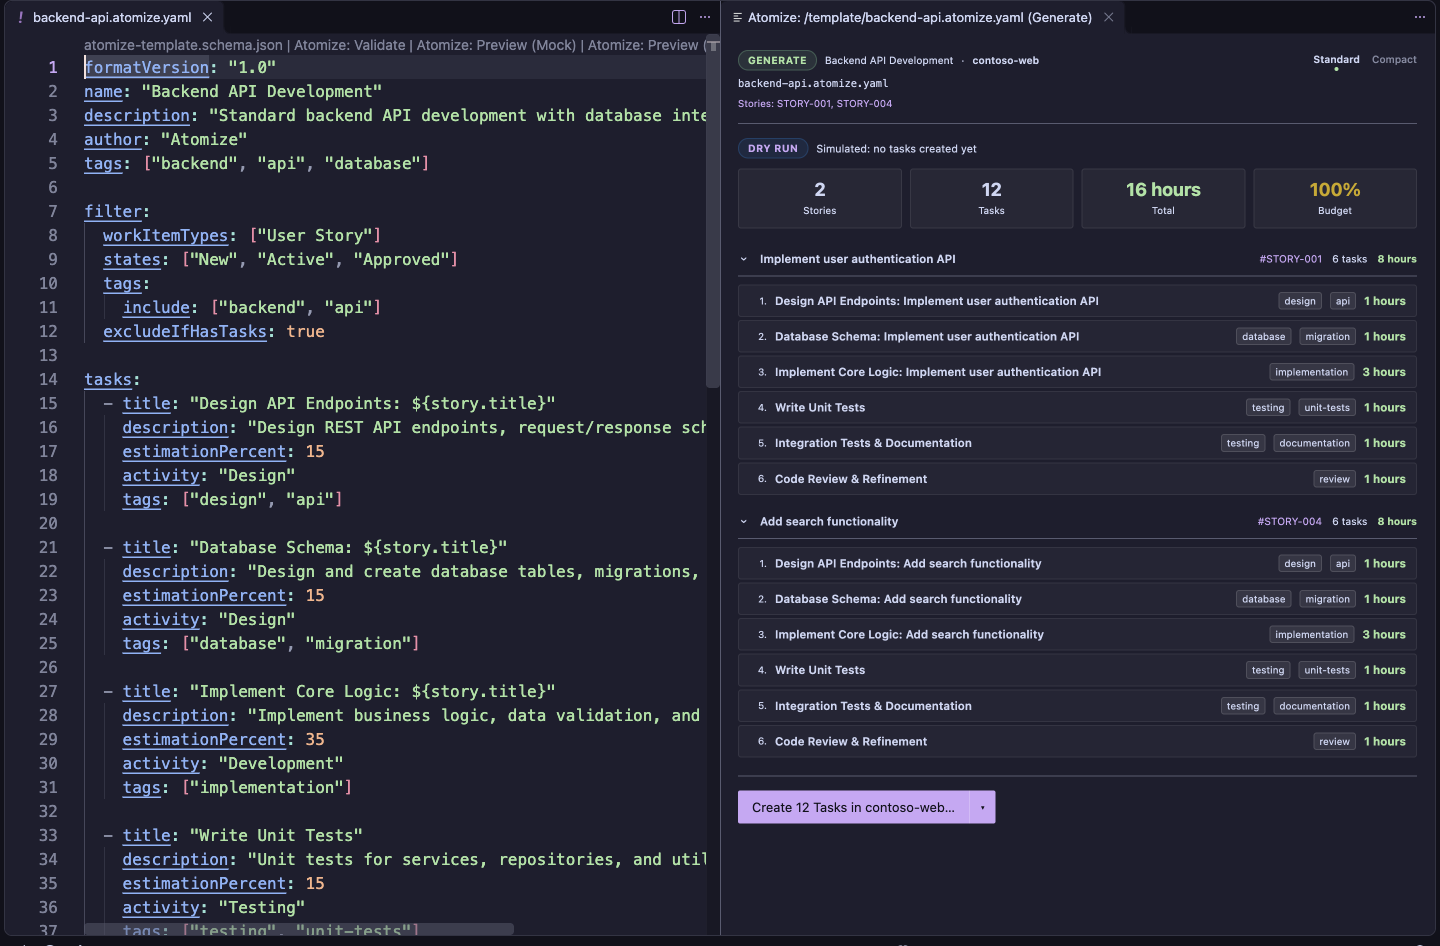
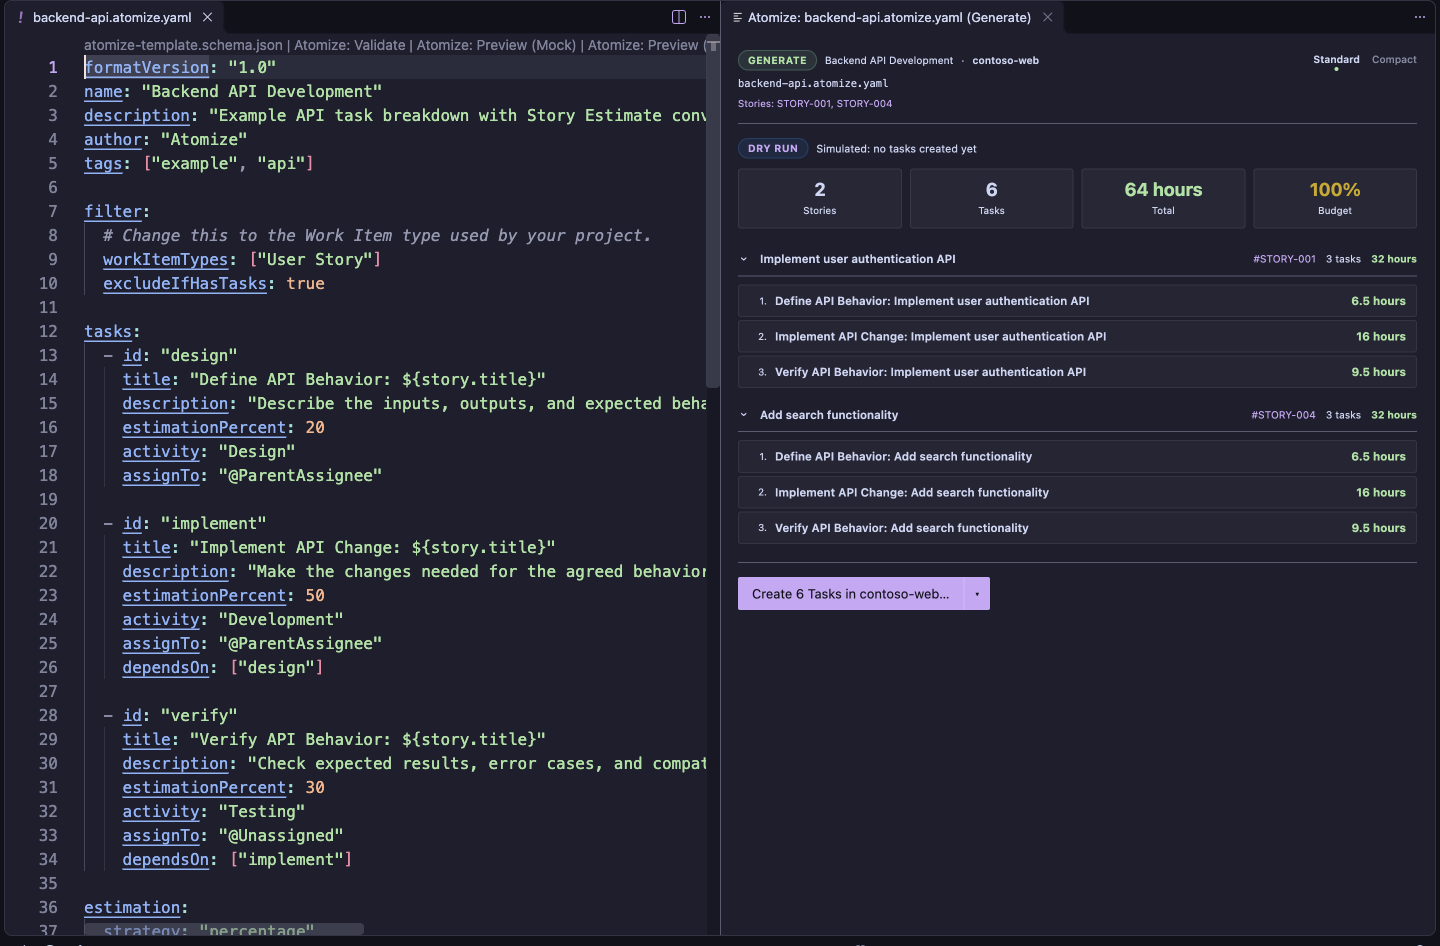
fix(docs): refresh Catalog walkthroughs and screenshots (#289)
Correct CLI, VS Code, and Studio quickstarts, transcripts, and screenshot captions to match the current Backend API Development Template. An input estimate of 8 converts to 32 hours across three Tasks; the two-Story Generate example plans six Tasks and 64 hours.

Refresh authoring, Mock Preview, and confirmation screenshots in both themes, synchronize Marketplace images, update capture assertions and contributor instructions, and check the documented results against the real built-in Template. Prepare extension 0.5.5 to publish the corrected Marketplace README and images. Studio documentation remains hidden in production under its existing publication flag.

All applicable PR checks passed, including website validation, extension packaging, security audit, and CodeQL analysis.

Closes #101
Closes #264
Closes #265
Closes #266
Closes #268
Closes #269

Release-Note(extension): Correct the Marketplace quickstart and refresh authoring, Mock Preview, and generation screenshots to match the current built-in Templates, including estimate conversion and confirmation counts.
Release-Note(cli): skip
Release-Note(studio): skip

diff --git a/packages/website/scripts/walkthrough.test.ts b/packages/website/scripts/walkthrough.test.ts
@@ -1,0 +1,48 @@
+import { expect, test } from "bun:test";
+import { readFile } from "node:fs/promises";
+import { fileURLToPath } from "node:url";
+import { TemplateLibrary } from "../../atomize-core/src/templates/template-library.ts";
+import { inspectTemplate, runPreview } from "../../atomize-core/src/templates/template-inspector.ts";
+
+const root = new URL("../../../", import.meta.url);
+const { template } = await new TemplateLibrary().loadSource(fileURLToPath(new URL("packages/atomize-core/catalog/templates/backend-api.atomize.yaml", root)));
+const mock = { title: "Add password reset", estimation: 8, type: "User Story" };
+const preview = runPreview(template, JSON.stringify(mock));
+const read = (path: string) => readFile(new URL(path, root), "utf8");
+
+test("CLI quickstart transcript matches the current built-in Template", async () => {
+  const markdown = await read("README.md");
+  const titles = [...markdown.matchAll(/^tasks\[\d+\]\.title: (.+)$/gm)].map(match => match[1]);
+  expect(titles).toEqual(preview.tasks.map(task => task.title));
+  for (const [key, value] of Object.entries(preview.estimationSummary)) {
+    expect(markdown).toContain(`estimationSummary.${key}: ${value}`);
+  }
+});
+
+test.each(["docs/Atomize-Studio.md", "docs/VS-Code-Extension.md"])("%s Mock walkthrough matches the current form and output", async path => {
+  const markdown = await read(path);
+  const table = markdown.match(/\| Input \| Value \|\n\|[^\n]+\n((?:\|[^\n]+\n)+)/)?.[1] ?? "";
+  const inputs = [...table.matchAll(/^\| ([^|]+) \| ([^|]+) \|$/gm)].map(match => match[1].replaceAll("`", "").trim().toLowerCase());
+  expect(inputs.sort()).toEqual(inspectTemplate(template).fields.map(field => field.name).sort());
+  expect(markdown).toContain(`expect **${preview.tasks.length} Tasks**`);
+  expect(markdown).toContain(`**${preview.estimationSummary.totalTaskEstimation} hours**`);
+  expect(markdown).toContain(preview.tasks[0].title.replace(mock.title, "Mock Story"));
+});
+
+test("VS Code generation screenshot captions match two Stories with estimate 8", async () => {
+  const markdown = await read("docs/VS-Code-Extension.md");
+  expect(markdown).toContain(`${2 * preview.tasks.length} Tasks, ${2 * preview.estimationSummary.totalTaskEstimation} hours`);
+  expect(markdown).toContain(`create ${2 * preview.tasks.length} tasks for 2 stories`);
+});
+
+test("CLI dry-run transcript matches the current Task titles, estimates, and allocation", async () => {
+  const markdown = await read("docs/Workflows.md");
+  const result = runPreview(template, JSON.stringify({ ...mock, title: "Implement user authentication API" }));
+  expect(markdown).toContain(`Tasks calculated:  ${result.tasks.length}`);
+  expect(markdown).toContain(`Tasks created:     ${result.tasks.length}`);
+  expect(markdown).toContain(`Created ${result.tasks.length} tasks for 1 story.`);
+  expect(markdown).toContain(`Distribution: ${result.estimationSummary.totalTaskEstimation} hours (100%)`);
+  for (const task of result.tasks) {
+    expect(markdown).toContain(`- ${task.title}: ${task.estimation} hours (${task.estimationPercent}%)`);
+  }
+});

diff --git a/packages/website/scripts/check-docs.ts b/packages/website/scripts/check-docs.ts
@@ -151,7 +151,7 @@ async function checkDocs() {
     if (page?.querySelector("h1")?.textContent !== title || !page?.querySelector("[data-pagefind-body]") || !page?.querySelector(".development-notice")) failures.push(`CLI page, metadata, or search indexing is missing: ${route}`);
   }
   const cliGenerate = pages.get(resolve(directory, "cli/generate/index.html"))?.body?.textContent ?? "";
-  for (const text of ["Dry run complete. No tasks were created.", "This will CREATE tasks in your work tracking system.", "Refusing live execution without confirmation", "Created 6 tasks for 1 story."]) {
+  for (const text of ["Dry run complete. No tasks were created.", "This will CREATE tasks in your work tracking system.", "Refusing live execution without confirmation", "Created 3 tasks for 1 story."]) {
     if (!cliGenerate.includes(text)) failures.push(`CLI generate guide is missing its transcript: ${text}`);
   }
   const reference = (route: string) => pages.get(resolve(directory, `cli/reference/${route}/index.html`));
@@ -179,7 +179,7 @@ async function checkDocs() {
   if (paths?.length !== onboardingPaths || !home?.querySelector('.onboarding-paths a[href="/getting-started/cli/"]')) failures.push(`Home must offer ${onboardingPaths} working onboarding paths`);
   if (quickstart?.querySelector("h1")?.textContent !== "Try Atomize from the CLI") failures.push("CLI quickstart is missing");
   const commands = [...(quickstart?.querySelectorAll("pre") ?? [])].map(block => block.textContent).join("\n");
-  for (const command of ["npm install -g @sppg2001/atomize", "atomize --version", "atomize validate template:backend-api", "atomize preview template:backend-api --mock-story", "Add password reset", "estimationSummary.totalTaskEstimation: 8"]) {
+  for (const command of ["npm install -g @sppg2001/atomize", "atomize --version", "atomize validate template:backend-api", "atomize preview template:backend-api --mock-story", "Add password reset", "estimationSummary.totalTaskEstimation: 32"]) {
     if (!commands.includes(command)) failures.push(`CLI quickstart is missing its verified command or expected result: ${command}`);
   }
   for (const tag of [...(features.studio ? ["studio-v0"] : []), "vscode-v0", "v5"]) {

diff --git a/docs/VS-Code-Extension.md b/docs/VS-Code-Extension.md
@@ -48,15 +48,13 @@ Use these values in the generated form:
 | Input | Value |
 | --- | --- |
 | Estimation | `8` |
-| Tags | `backend` |
 | Type | `User Story` |
-| State | `Active` |
 
-Select **Run Preview**. Expect six Tasks and a total Task Estimate of 8 hours, with 100% allocated. The first Task is **Design API Endpoints: Mock Story**. The form shows the fields the Template references; other Mock Story values use defaults, including the title `Mock Story`. Choose **Edit mock story** to return to the form, change the estimate, and run again to see a different allocation.
+Select **Run Preview**. The Template converts the input estimate of 8 to a 32-hour budget using its example factor of 4. In the result, expect **3 Tasks** and a total Task Estimate of **32 hours**, with 100% allocated. The first Task is **Define API Behavior: Mock Story**. The Task Estimates are 6.5, 16, and 9.5 hours after rounding to half-hour increments. The form shows the fields the Template references; other Mock Story values use defaults, including the title `Mock Story`. Choose **Edit mock story** to return to the form, change the estimate, and run again to see a different allocation.
 
 <picture>
   <source media="(prefers-color-scheme: dark)" srcset="../packages/website/public/vscode/mock-preview-dark.png">
-  <img alt="VS Code with Backend API Development open on the left and the Mock Preview Panel on the right showing six Tasks and an 8-hour total from offline Mock Story values." src="../packages/website/public/vscode/mock-preview-light.png">
+  <img alt="VS Code with Backend API Development open on the left and the Mock Preview Panel on the right showing three Tasks and a 32-hour total from offline Mock Story values." src="../packages/website/public/vscode/mock-preview-light.png">
 </picture>
 
 Mock Preview runs in-process, without querying a platform or creating Work Items. It uses the saved Template content. When a local file has unsaved edits, the command asks whether to save first or preview its saved version; cancel if neither is what you intend.
@@ -190,7 +188,7 @@ Runs the Generate Panel for the active Template. The panel first shows a dry-run
 
 <picture>
   <source media="(prefers-color-scheme: dark)" srcset="../packages/website/public/vscode/generate-dry-run-dark.png">
-  <img alt="VS Code's Generate Panel beside a Template, showing a DRY RUN report for two Stories with 12 Tasks, 16 hours, and a 100% budget, each Task with its tags and estimate, and the Create 12 Tasks button." src="../packages/website/public/vscode/generate-dry-run-light.png">
+  <img alt="VS Code's Generate Panel beside a Template, showing a DRY RUN report for two Stories with 6 Tasks, 64 hours, and a 100% budget, each Task with its estimate, and the Create 6 Tasks button." src="../packages/website/public/vscode/generate-dry-run-light.png">
 </picture>
 
 5. Choose **Create *N* Tasks in *profile*…**. The arrow beside it offers **Continue on task failure**, which keeps creating the remaining Tasks when one fails.
@@ -198,7 +196,7 @@ Runs the Generate Panel for the active Template. The panel first shows a dry-run
 
 <picture>
   <source media="(prefers-color-scheme: dark)" srcset="../packages/website/public/vscode/generate-confirmation-dark.png">
-  <img alt="VS Code's confirmation dialog over the Generate Panel asking to create 12 tasks for 2 stories using the selected profile, with Cancel and Create Tasks buttons." src="../packages/website/public/vscode/generate-confirmation-light.png">
+  <img alt="VS Code's confirmation dialog over the Generate Panel asking to create 6 tasks for 2 stories using the selected profile, with Cancel and Create Tasks buttons." src="../packages/website/public/vscode/generate-confirmation-light.png">
 </picture>
 
 Tasks are created only after step 6. While they're created, the panel shows how many Stories are done and how many Tasks were created; there's no cancel action once creation starts. The result shows **CREATED**, or **PARTIAL** when some Stories failed, with links to the Stories and Tasks in Azure DevOps. Tasks that were created stay in Azure DevOps even when the run fails.

diff --git a/packages/website/README.md b/packages/website/README.md
@@ -207,8 +207,10 @@ To publish Studio, set `ATOMIZE_PUBLISH_STUDIO: "true"` for production in
 ## Refresh Studio screenshots
 
 The authoring and Mock Preview images were captured from the current Studio UI
-on 2026-10-15 at 1440 × 1000 in light and dark mode. They show the built-in Backend API
-Development Template and an offline Mock Story with estimate 8. There are no
+on 2026-10-22 at 1440 × 1000 in light and dark mode. They show the built-in Backend API
+Development Template and an offline Mock Story with estimate 8 and type User Story.
+The Template converts that estimate to 32 hours and splits it across three Tasks
+(6.5, 16, and 9.5 hours). There are no
 Connection Profiles, credentials, or customer data in the authoring and preview
 captures. The Connection Profile capture shows the real Manage work projects
 dialog with two fictional `contoso` connections returned by the substituted IPC
@@ -254,13 +256,15 @@ profile because the capture clears its local storage. Close it after capture.
 
 Review all eight PNGs, update the adjacent canonical instructions and alt text when
 labels or behaviour change, and run the website checks. If the built-in Template
-changes its six-Task example, update the quickstart and capture assertions together.
+changes its example, update the quickstart, contract tests, and capture assertions together.
+`bun run --cwd packages/website test` checks the documented inputs, task titles,
+and converted totals against the current built-in Template.
 Shared Studio Markdown changes and these media files trigger CI and deployment.
 
 ## Refresh VS Code screenshots
 
 VS Code pages reuse marked sections in `docs/VS-Code-Extension.md`. The images
-under `public/vscode/` were captured on 2026-10-15 from a real Extension
+under `public/vscode/` were captured on 2026-10-22 from a real Extension
 Development Host running this checkout, with the built-in Backend API Development
 Template and the documented offline Mock Story. No platform credentials or AI
 sign-in are used. The native editor and extension engine are not mocked; only
@@ -339,13 +343,14 @@ taken, launch the host on another port and set `ATOMIZE_VSCODE_DEBUG_PORT`.
 
 The script closes editors in this dedicated host, opens the real built-in Template
 through Browse Catalog's backing-file button, captures CodeLens and YAML, and
-runs Mock Preview with estimate 8. It drives the separate webview process to
+runs Mock Preview with estimate 8 and type User Story, asserting three Tasks and
+a converted total of 32 hours. It drives the separate webview process to
 submit the actual form. It then adds two fictional `contoso` profiles through
 the real **Atomize: Manage Profiles** inputs, with a placeholder token that is
 never tested or sent anywhere, and captures one profile's actions cropped to the
 Quick Pick. It skips profiles that already exist in the isolated host. Finally it runs Atomize: Generate with the
 `contoso-web` profile, ticks the two Mock Stories estimated at 8 in the Story
-Browser, captures the dry run and VS Code's confirmation dialog, and cancels it. The captures omit the host title bar and status bar;
+Browser, captures the dry run (six Tasks and 64 hours) and VS Code's confirmation dialog, and cancels it. The captures omit the host title bar and status bar;
 their content is otherwise the unmodified editor UI. Review all ten images, alt
 text, and adjacent instructions after changes to the Catalog, authoring,
 preview, profile management, or Generate UI. Changes to the canonical VS Code guide and these media files trigger

diff --git a/packages/vscode-extension/README.md b/packages/vscode-extension/README.md
@@ -14,14 +14,14 @@ Draft Templates with GitHub Copilot, review proposed improvements in a diff, and
 
 1. Run **Atomize: Browse Catalog** and open the built-in **Backend API Development** Template, or create your own `.atomize.yaml` file.
 2. Run **Atomize: Validate** and choose **Offline Validation** to check the Template.
-3. Run **Atomize: Preview (Mock)** to simulate Tasks without connecting to a platform. For the built-in Template, enter estimate `8`, tags `backend`, type `User Story`, and state `Active`, then select **Run Preview**.
+3. Run **Atomize: Preview (Mock)** to simulate Tasks without connecting to a platform. For the built-in Template, enter estimate `8` and type `User Story`, then select **Run Preview**.
 4. Configure a Connection Profile with **Atomize: Manage Profiles** when you are ready to use connected workflows.
 5. Run **Atomize: Preview (Live)** to preview against a real Story.
 6. Run **Atomize: Generate** to review the plan and create Tasks only after confirmation.
 
-Atomize previews by default. Creating Tasks requires the Generate flow and an explicit confirmation.
+The built-in example converts an estimate of 8 into a 32-hour budget using its factor of 4, split across three Tasks. Atomize previews by default. Creating Tasks requires the Generate flow and an explicit confirmation.
 
-![Mock Preview beside the built-in Backend API Development Template, showing six Tasks, eight hours, and 100% allocation](./images/screenshots/03-mock-preview.png)
+![Mock Preview beside the built-in Backend API Development Template, showing three Tasks, 32 hours, and 100% allocation](./images/screenshots/03-mock-preview.png)
 
 ## Atomize YAML
 
@@ -94,11 +94,11 @@ See [Draft and improve with AI](https://atomize-docs.pages.dev/vscode/ai/) for s
 
 Run **Atomize: Generate**, choose a Connection Profile, and select Stories in the Story Browser or enter their IDs. Review the **DRY RUN** report, including each Story's planned Tasks and estimates.
 
-![Generate Panel showing a dry run for two sample Stories with 12 planned Tasks, 16 hours, and no Tasks created](./images/screenshots/07-generate-dry-run.png)
+![Generate Panel showing a dry run for two sample Stories with 6 planned Tasks, 64 hours, and no Tasks created](./images/screenshots/07-generate-dry-run.png)
 
 Choose **Create Tasks**, then confirm the Story count, Task count, and profile in VS Code's confirmation dialog. Cancel to keep reviewing without creating anything.
 
-![Confirmation dialog asking to create 12 Tasks for two Stories using the selected Connection Profile](./images/screenshots/05-generate-confirmation.png)
+![Confirmation dialog asking to create 6 Tasks for two Stories using the selected Connection Profile](./images/screenshots/05-generate-confirmation.png)
 
 Screenshots use fictional profiles and Stories and show the workflow before Task creation.
 

diff --git a/docs/Atomize-Studio.md b/docs/Atomize-Studio.md
@@ -49,17 +49,15 @@ Use these values for the built-in Backend API Development Template:
 | Input | Value |
 | --- | --- |
 | `estimation` | `8` |
-| `tags` | `backend` |
 | `type` | `User Story` |
-| `state` | `Active` |
 
 Studio's inputs are individual fields, not a JSON editor. Leave other optional inputs empty. Fields such as the Mock Story's title that this form does not expose use their default values; the title defaults to `Mock Story`.
 
-Choose **Run Mock Preview**. Under **Resolved Tasks**, expect six Tasks, no skipped Tasks, a Story estimate of 8 hours, a Task total of 8 hours, and 100% allocated. The first Task is **Design API Endpoints: Mock Story**. Change the estimate and run again to see the breakdown update.
+Choose **Run Mock Preview**. The Template converts the input estimate of 8 to a 32-hour budget using its example factor of 4. Under **Resolved Tasks**, expect **3 Tasks**, no skipped Tasks, a converted Story budget and Task total of **32 hours**, and 100% allocated. The first Task is **Define API Behavior: Mock Story**. The Task Estimates are 6.5, 16, and 9.5 hours after rounding to half-hour increments. Change the estimate and run again to see the breakdown update.
 
 <picture>
   <source media="(prefers-color-scheme: dark)" srcset="../packages/website/public/studio/mock-preview-dark.png">
-  <img alt="Studio Generate Area with Backend API Development selected independently as the Preview Source, Mock Story inputs on the left, and six resolved Tasks on the right." src="../packages/website/public/studio/mock-preview-light.png">
+  <img alt="Studio Generate Area with Backend API Development selected independently as the Preview Source, Mock Story inputs on the left, and three resolved Tasks on the right." src="../packages/website/public/studio/mock-preview-light.png">
 </picture>
 
 Mock Preview uses the bundled companion process to evaluate the Template offline. It does not query Azure DevOps or create Work Items. No separate CLI installation is needed.
@@ -137,7 +135,7 @@ The authoring surface is organised into sections: Basic Info, Filter, Tasks, Est
 
 <picture>
   <source media="(prefers-color-scheme: dark)" srcset="../packages/website/public/studio/template-authoring-dark.png">
-  <img alt="Studio Templates Area showing a clone of Backend API Development, the Builder sections on the left, and the six task definitions in the Tasks section." src="../packages/website/public/studio/template-authoring-light.png">
+  <img alt="Studio Templates Area showing a clone of Backend API Development, the Builder sections on the left, and the three task definitions in the Tasks section." src="../packages/website/public/studio/template-authoring-light.png">
 </picture>
 
 | Section | What to edit |

diff --git a/README.md b/README.md
@@ -81,18 +81,15 @@ Pass a small Mock Story as JSON. Single quotes keep the JSON intact in Bash, Zsh
 atomize preview template:backend-api --mock-story '{"id":"123","title":"Add password reset","estimation":8}'
 ```
 
-The command prints JSON containing six Tasks. The first three titles include the Mock Story's title; the remaining titles come directly from the Template. Here is a shortened transcript of the result:
+The command prints JSON containing three Tasks, each using the Mock Story's title. The Template converts the input Story Estimate of 8 into a 32-hour budget using its example conversion factor of 4, then splits it 20% / 50% / 30%. Here is a shortened transcript of the result:
 
 ```text
-tasks[0].title: Design API Endpoints: Add password reset
-tasks[1].title: Database Schema: Add password reset
-tasks[2].title: Implement Core Logic: Add password reset
-tasks[3].title: Write Unit Tests
-tasks[4].title: Integration Tests & Documentation
-tasks[5].title: Code Review & Refinement
+tasks[0].title: Define API Behavior: Add password reset
+tasks[1].title: Implement API Change: Add password reset
+tasks[2].title: Verify API Behavior: Add password reset
 skippedTasks: []
-estimationSummary.storyEstimation: 8
-estimationSummary.totalTaskEstimation: 8
+estimationSummary.storyEstimation: 32
+estimationSummary.totalTaskEstimation: 32
 estimationSummary.percentageUsed: 100
 ```
 

diff --git a/docs/Workflows.md b/docs/Workflows.md
@@ -189,15 +189,15 @@ Found 1 stories
 
  Summary:
   Stories processed: 1
-  Tasks calculated:  6
+  Tasks calculated:  3
   Tasks created:     0
 
 ✓ STORY-001: Implement user authentication API
-  Distribution: 8 hours (100%)
+  Distribution: 32 hours (100%)
   Task breakdown:
-    - Design API Endpoints: Implement user authentication API: 1 hours (15%)
-    - Implement Core Logic: Implement user authentication API: 3 hours (35%)
-    ...
+    - Define API Behavior: Implement user authentication API: 6.5 hours (20%)
+    - Implement API Change: Implement user authentication API: 16 hours (50%)
+    - Verify API Behavior: Implement user authentication API: 9.5 hours (30%)
 
 Dry run complete. No tasks were created.
   Run with --execute to create tasks for real.
@@ -223,10 +223,10 @@ After you confirm, the summary reports the Tasks created:
  Summary:
   Stories processed: 1
   Stories success:   1
-  Tasks calculated:  6
-  Tasks created:     6
+  Tasks calculated:  3
+  Tasks created:     3
 
-Created 6 tasks for 1 story.
+Created 3 tasks for 1 story.
 ```
 
 Without an interactive terminal (a script or CI job), `--execute` refuses to run unless you also pass `--auto-approve`, which acknowledges that Tasks will be created without a prompt:
